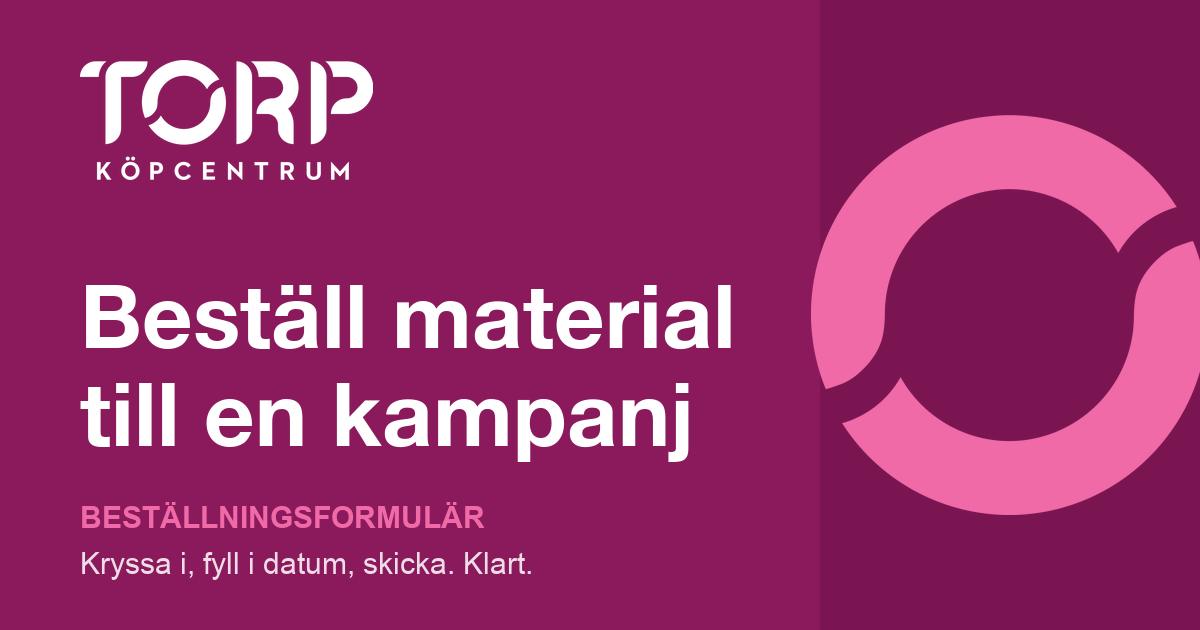
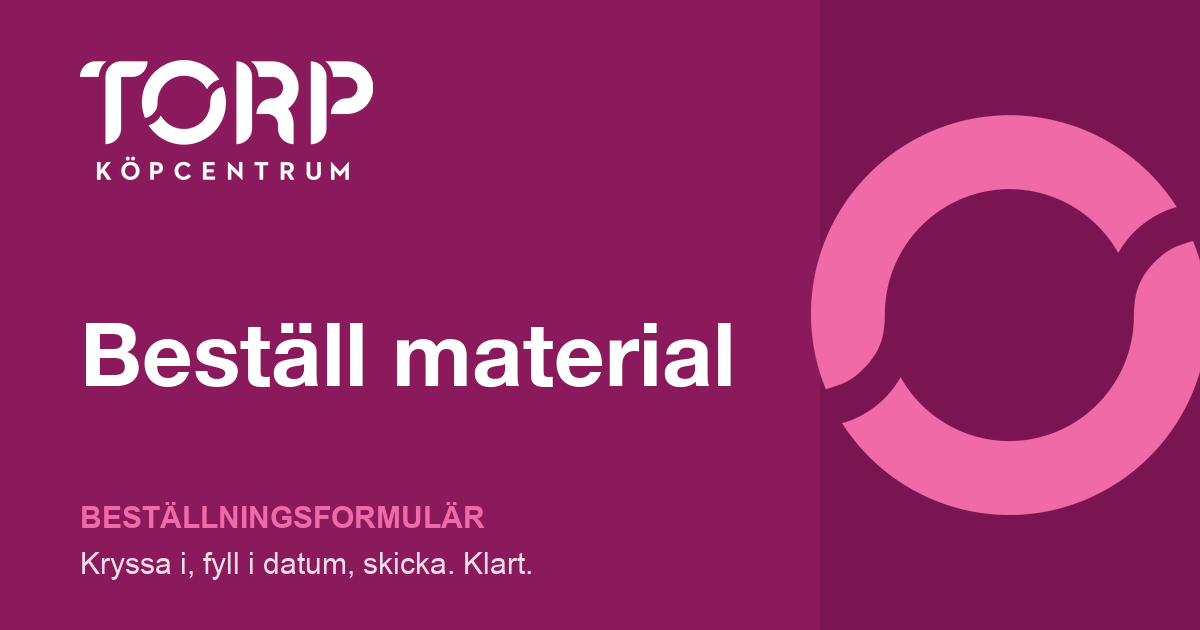
Kundtexter som passar beställningar utanför kampanjer
Rubrik, första blocket, datumfält och bekräftelsen utgår inte längre från en
kampanj eller från att Stampen levererar. Kartskärmar visar inte längre
leverantörstexten från den gamla blanketten. Fältet kampanjnamn i data är oförändrat.

Changed region(s): [[0.0617, 0.4524, 0.6167, 0.754]]

diff --git a/index.html b/index.html
@@ -15,7 +15,7 @@
 <meta property="og:image" content="https://torp.k2.nu/og.png">
 <meta property="og:image:width" content="1200">
 <meta property="og:image:height" content="630">
-<meta property="og:image:alt" content="Beställ material till en kampanj – Torp Köpcentrum">
+<meta property="og:image:alt" content="Beställ material – Torp Köpcentrum">
 <meta name="twitter:card" content="summary_large_image">
 <meta name="twitter:title" content="Beställ material – Torp Köpcentrum">
 <meta name="twitter:description" content="Torp Köpcentrums beställningsformulär. Kryssa i vad som ska tas fram, fyll i datum och skicka.">
@@ -27,7 +27,7 @@
 <link rel="preconnect" href="https://fonts.googleapis.com">
 <link rel="preconnect" href="https://fonts.gstatic.com" crossorigin>
 <link rel="stylesheet" href="https://fonts.googleapis.com/css2?family=Manrope:wght@400;500;600;800&family=IBM+Plex+Mono:wght@400;500&display=swap">
-<link rel="stylesheet" href="stil.css?v=2026-11-07e">
+<link rel="stylesheet" href="stil.css?v=2026-11-09a">
 </head>
 <body>
 
@@ -56,50 +56,50 @@
   <section class="hero">
     <div class="inre">
       <p class="etikett">Torp Köpcentrum · Stampen Media</p>
-      <h1>Beställ material till en kampanj</h1>
+      <h1>Beställ material</h1>
     </div>
   </section>
 
   <form id="formular" class="inre formular" novalidate>
 
-    <!-- Steg 1: Kampanjen -->
+    <!-- Steg 1: Beställningen -->
     <section class="block" id="block-kampanj">
       <div class="block-huvud">
-        <h2>Kampanjen</h2>
-        <p>Vad gäller beställningen och när ska materialet vara klart?</p>
+        <h2>Beställningen</h2>
+        <p>Berätta vad det gäller och när materialet ska vara klart.</p>
       </div>
 
       <div class="falt-rad">
         <div class="falt falt-bred">
-          <label for="kampanjnamn">Kampanjnamn <span class="kravd">*</span></label>
-          <input type="text" id="kampanjnamn" name="kampanjnamn" autocomplete="off" placeholder="t.ex. Julhandel 2026" required>
-          <p class="fel" id="fel-kampanjnamn" hidden>Skriv vad kampanjen heter.</p>
+          <label for="kampanjnamn">Vad gäller beställningen? <span class="kravd">*</span></label>
+          <input type="text" id="kampanjnamn" name="kampanjnamn" autocomplete="off" placeholder="t.ex. Golvdekaler till entrén" required>
+          <p class="fel" id="fel-kampanjnamn" hidden>Skriv vad beställningen gäller.</p>
         </div>
       </div>
 
       <div class="falt-rad datum-rad">
         <div class="falt">
-          <label for="startdatum">Kampanjen startar</label>
+          <label for="startdatum">Startdatum</label>
           <input type="date" id="startdatum" name="startdatum">
         </div>
         <div class="falt">
-          <label for="slutdatum">Kampanjen slutar</label>
+          <label for="slutdatum">Slutdatum</label>
           <input type="date" id="slutdatum" name="slutdatum">
           <p class="fel" id="fel-slutdatum" hidden>Slutdatumet ligger före startdatumet.</p>
         </div>
         <div class="falt falt-leverans">
           <label for="leveransdatum">Materialet levereras senast <span class="kravd">*</span></label>
           <input type="date" id="leveransdatum" name="leveransdatum" required>
-          <p class="hjalp">Det viktigaste datumet. Det är då Stampen ska ha skickat allt till er.</p>
+          <p class="hjalp">Det viktigaste datumet. Då behöver ni ha materialet.</p>
           <p class="fel" id="fel-leveransdatum" hidden>Ange när materialet senast ska vara levererat.</p>
-          <p class="varning" id="varning-leveransdatum" hidden>Leveransdatumet ligger efter kampanjstarten. Stämmer det?</p>
+          <p class="varning" id="varning-leveransdatum" hidden>Leveransdatumet ligger efter startdatumet. Stämmer det?</p>
         </div>
       </div>
 
       <div class="falt-rad">
         <div class="falt falt-bred">
-          <label for="notering">Notering om kampanjen</label>
-          <textarea id="notering" name="notering" rows="3" placeholder="Budskap, erbjudanden, butiker som ska synas, bilder ni har, annat Stampen behöver veta."></textarea>
+          <label for="notering">Notering</label>
+          <textarea id="notering" name="notering" rows="3" placeholder="Budskap, butiker som ska synas, placering, annat som är bra att veta."></textarea>
         </div>
       </div>
 
@@ -107,12 +107,12 @@
         <div class="falt">
           <label for="bestallare-namn">Ditt namn <span class="kravd">*</span></label>
           <input type="text" id="bestallare-namn" name="bestallare-namn" autocomplete="name" required>
-          <p class="fel" id="fel-bestallare-namn" hidden>Skriv ditt namn så Stampen vet vem som beställt.</p>
+          <p class="fel" id="fel-bestallare-namn" hidden>Skriv ditt namn så att vi vet vem som beställt.</p>
         </div>
         <div class="falt">
           <label for="bestallare-epost">Din e-post <span class="kravd">*</span></label>
           <input type="email" id="bestallare-epost" name="bestallare-epost" autocomplete="email" required>
-          <p class="fel" id="fel-bestallare-epost" hidden>Ange en e-postadress som Stampen kan svara till.</p>
+          <p class="fel" id="fel-bestallare-epost" hidden>Ange en e-postadress som vi kan svara till.</p>
         </div>
         <div class="falt">
           <label for="bestallare-telefon">Telefon</label>
@@ -165,7 +165,7 @@
     <section class="block" id="block-skicka">
       <div class="block-huvud">
         <h2>Skicka beställningen</h2>
-        <p id="skicka-info">Kontrollera sammanställningen. När du trycker på Skicka går beställningen direkt till Stampen och du får en bekräftelse här.</p>
+        <p id="skicka-info">Kontrollera sammanställningen. När du trycker på Skicka går beställningen iväg direkt och du får en bekräftelse här.</p>
       </div>
       <pre id="sammanstallning-forhandsvisning" class="sammanstallning" aria-live="polite"></pre>
       <div class="skicka-rad">
@@ -183,7 +183,7 @@
       <div class="block-huvud" id="bekraftelse-mottagen" hidden>
         <p class="etikett">Klart</p>
         <h2>Beställningen är mottagen</h2>
-        <p>Tack! Beställningen ligger nu hos Stampen och säljare och produktion har fått besked. <span id="bekraftelse-nummer"></span> Spara gärna texten nedan som kvitto.</p>
+        <p>Tack! Beställningen är mottagen och skickad vidare till dem som ska ta fram materialet. <span id="bekraftelse-nummer"></span> Spara gärna texten nedan som kvitto.</p>
       </div>
       <div class="block-huvud" id="bekraftelse-mejl">
         <p class="etikett">Nästan klart</p>
@@ -235,6 +235,6 @@
   </div>
 </footer>
 
-<script src="app.js?v=2026-11-07e"></script>
+<script src="app.js?v=2026-11-09a"></script>
 </body>
 </html>

diff --git a/app.js b/app.js
@@ -20,8 +20,8 @@ const KONFIG = {
 
 /* Fälttyper som kan dyka upp under en grupp när något i gruppen är ikryssat. */
 const FALT = {
-  kampanjstart: { typ: 'date', etikett: 'Kampanjstart', hjalp: 'Om annan än kampanjens startdatum' },
-  kampanjslut:  { typ: 'date', etikett: 'Kampanjslut' },
+  kampanjstart: { typ: 'date', etikett: 'Startdatum', hjalp: 'Om annat än startdatumet ovan' },
+  kampanjslut:  { typ: 'date', etikett: 'Slutdatum' },
   uppsattning:  { typ: 'date', etikett: 'Uppsättningsdatum' },
   montering:    { typ: 'date', etikett: 'Monteringsdatum' },
   inforande:    { typ: 'date', etikett: 'Införandedatum', hjalp: 'Den dag annonsen ska vara i tidningen' },
@@ -60,7 +60,7 @@ const GRUPPER = [
     { id: 'skarm-1080x1920', namn: 'Stående skärm', matt: '1080×1920 px' }
   ]},
   { id: 'kartskarmar', antal: true, namn: 'Kartskärmar', falt: ['kampanjstart', 'kampanjslut', 'notering'],
-    leverantor: 'Ej angiven i den gamla blanketten – skriv i noteringen vem som ska ha filen', val: [
+    hjalp: 'Skriv i noteringen vem som ska ha filen.', val: [
     { id: 'kartskarm-1920x1080', namn: 'Liggande skärm', matt: '1920×1080 px' }
   ]},
   { id: 'hemsidan', namn: 'Hemsidan', falt: ['kampanjstart', 'notering'], val: [
@@ -272,8 +272,8 @@ function datum(s) {
 function sammanstall(d) {
   const r = [];
   r.push('BESTÄLLNING AV MATERIAL – ' + KONFIG.kund.toUpperCase());
-  r.push('Kampanj: ' + (d.kampanjnamn || '(ej ifyllt)'));
-  if (d.startdatum || d.slutdatum) r.push('Kampanjperiod: ' + (datum(d.startdatum) || '?') + ' – ' + (datum(d.slutdatum) || '?'));
+  r.push('Gäller: ' + (d.kampanjnamn || '(ej ifyllt)'));
+  if (d.startdatum || d.slutdatum) r.push('Period: ' + (datum(d.startdatum) || '?') + ' – ' + (datum(d.slutdatum) || '?'));
   r.push('LEVERERAS SENAST: ' + (datum(d.leveransdatum) || '(ej ifyllt)'));
   const b = [d.bestallare.namn, d.bestallare.epost, d.bestallare.telefon].filter(Boolean).join(' · ');
   r.push('Beställare: ' + (b || '(ej ifyllt)'));
@@ -314,7 +314,7 @@ function sammanstall(d) {
 }
 
 function amne(d) {
-  return KONFIG.amnesprefix + ': ' + (d.kampanjnamn || 'kampanj') + (d.leveransdatum ? ' – leverans ' + d.leveransdatum : '');
+  return KONFIG.amnesprefix + ': ' + (d.kampanjnamn || 'material') + (d.leveransdatum ? ' – leverans ' + d.leveransdatum : '');
 }
 
 function mailtoLank(d, text) {
@@ -811,7 +811,7 @@ function start() {
   $('mottagare-text').textContent = mottagare;
   document.querySelectorAll('.mottagare-text').forEach(el => { el.textContent = mottagare; });
   $('skicka-info').textContent = KONFIG.endpoint
-    ? 'Kontrollera sammanställningen. När du trycker på Skicka går beställningen direkt till Stampen och du får en bekräftelse här.'
+    ? 'Kontrollera sammanställningen. När du trycker på Skicka går beställningen iväg direkt och du får en bekräftelse här.'
     : 'Kontrollera sammanställningen. När du trycker på Skicka öppnas ett mejl i ditt e-postprogram med allt ifyllt. Skicka mejlet, så är beställningen gjord.';
   $('skicka-hjalp').textContent = KONFIG.endpoint
     ? 'Går systemet inte att nå öppnas i stället ett färdigt mejl till ' + mottagare + '.'
